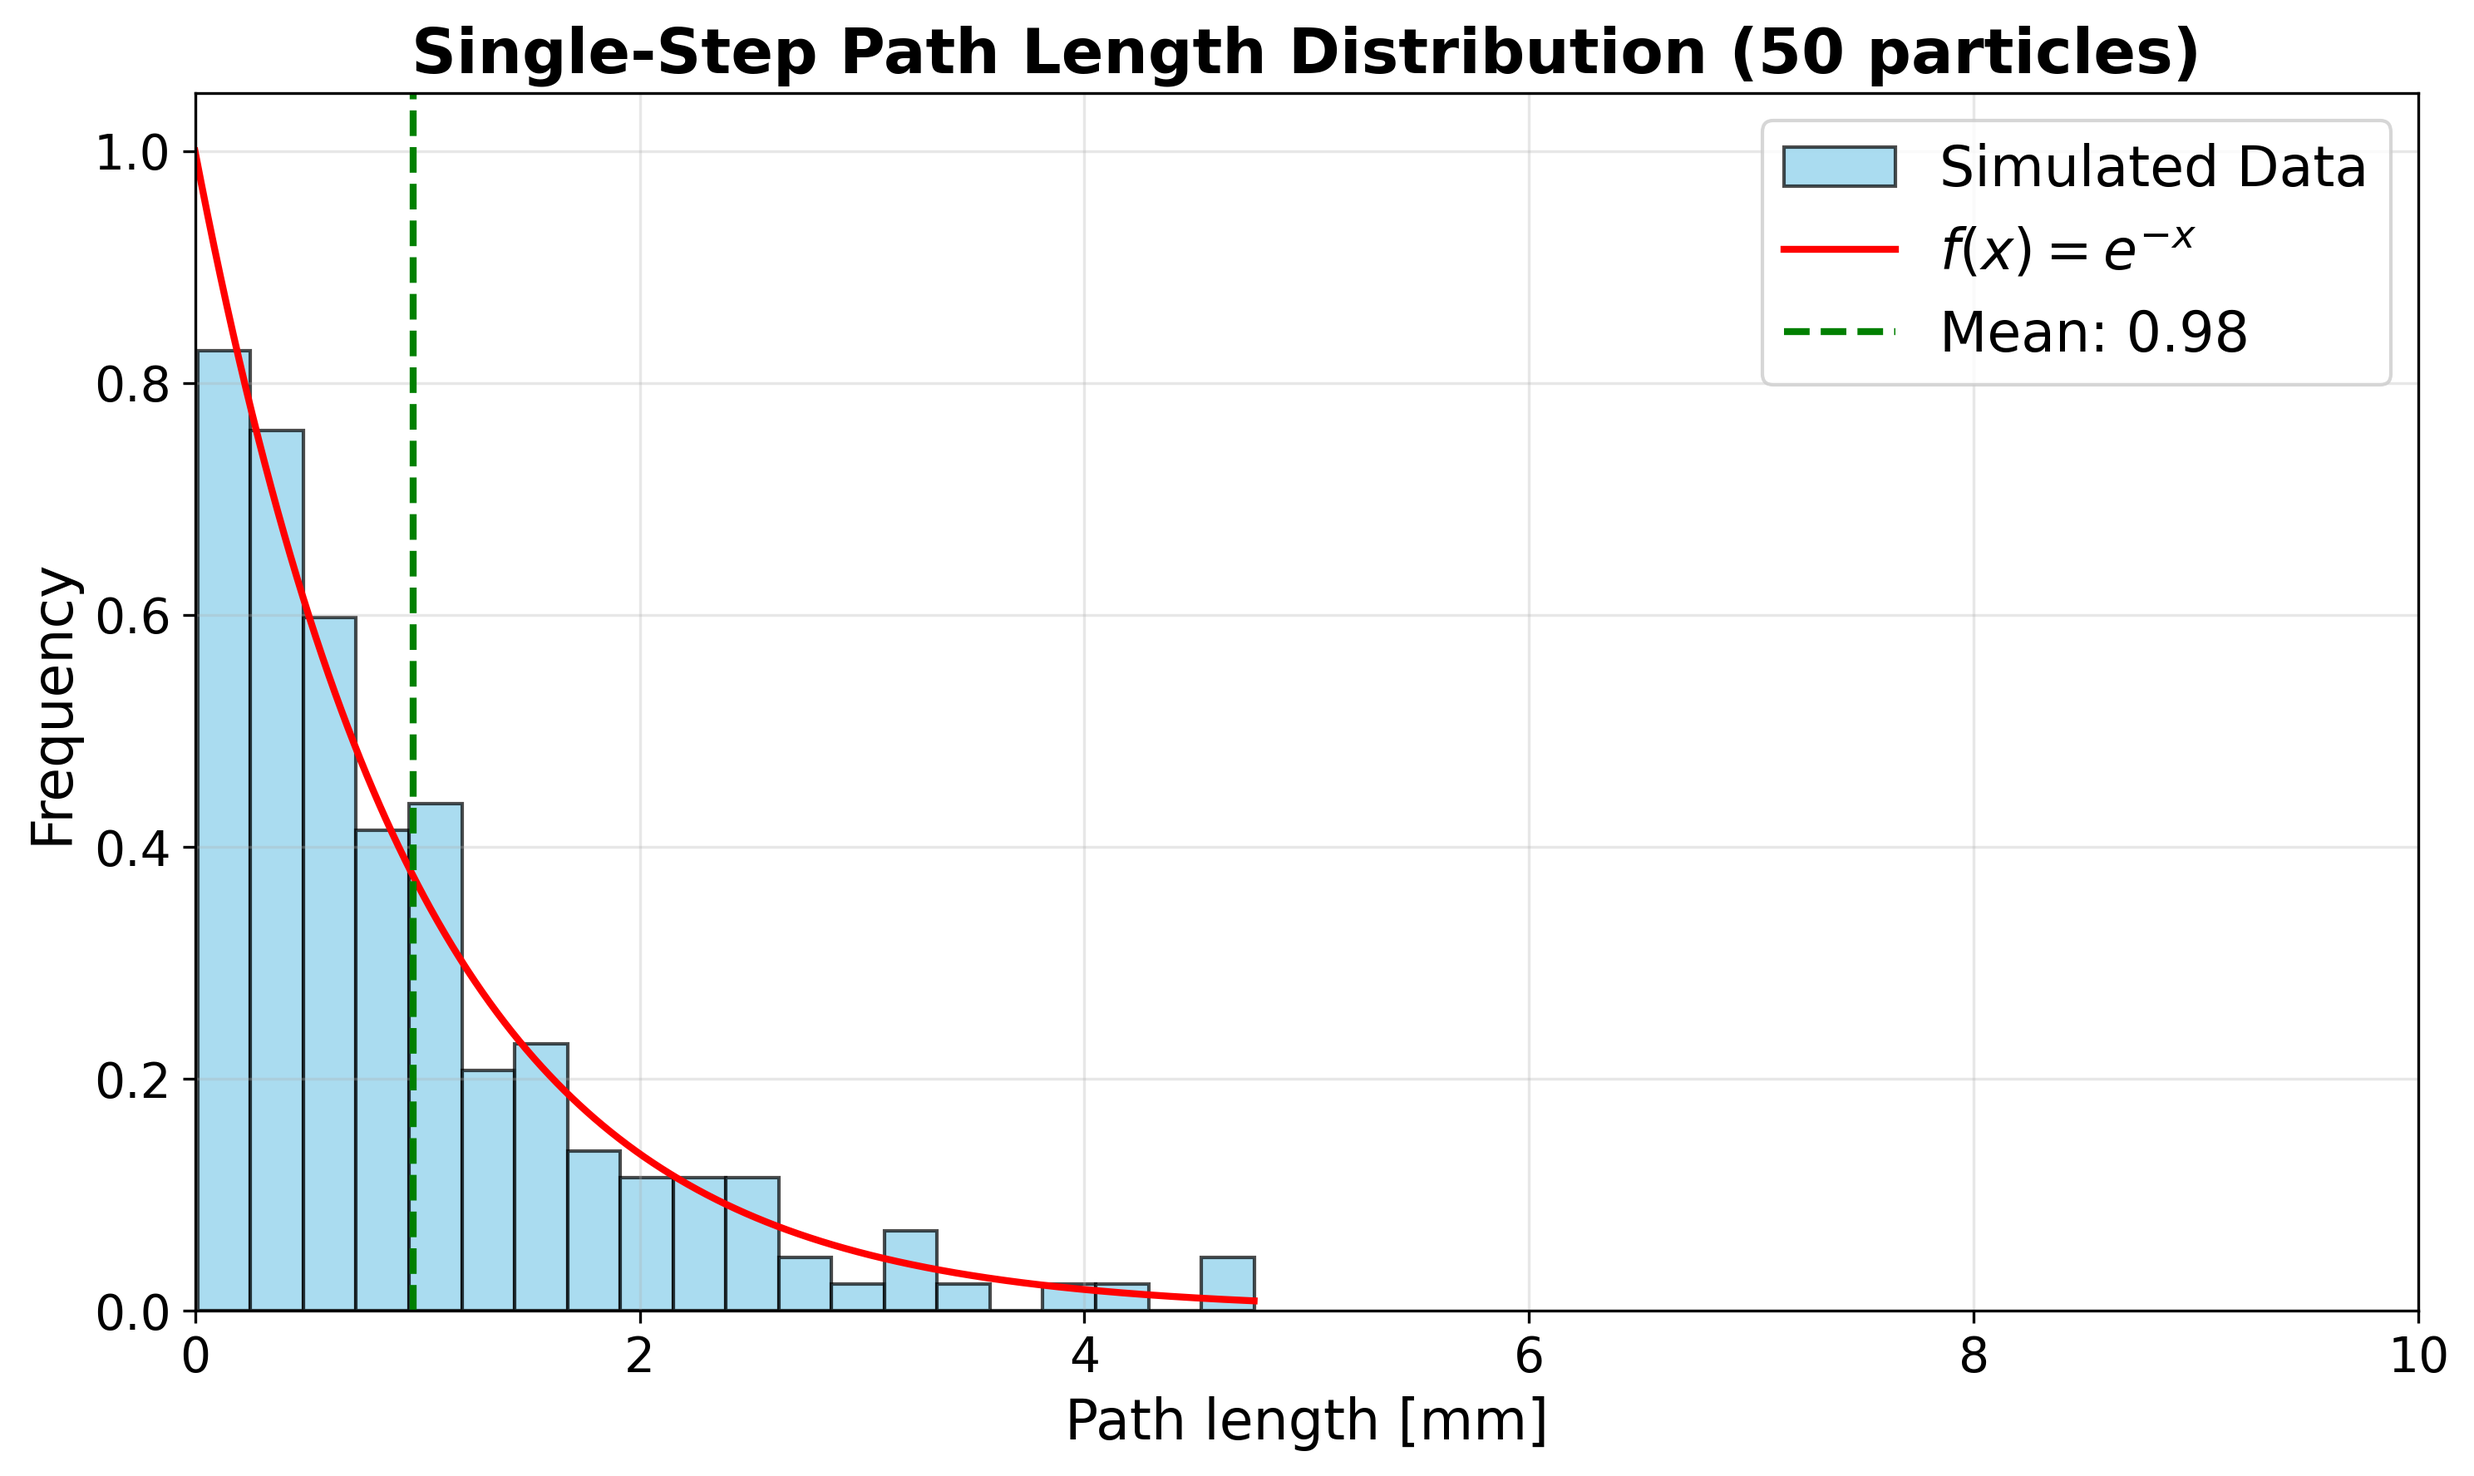
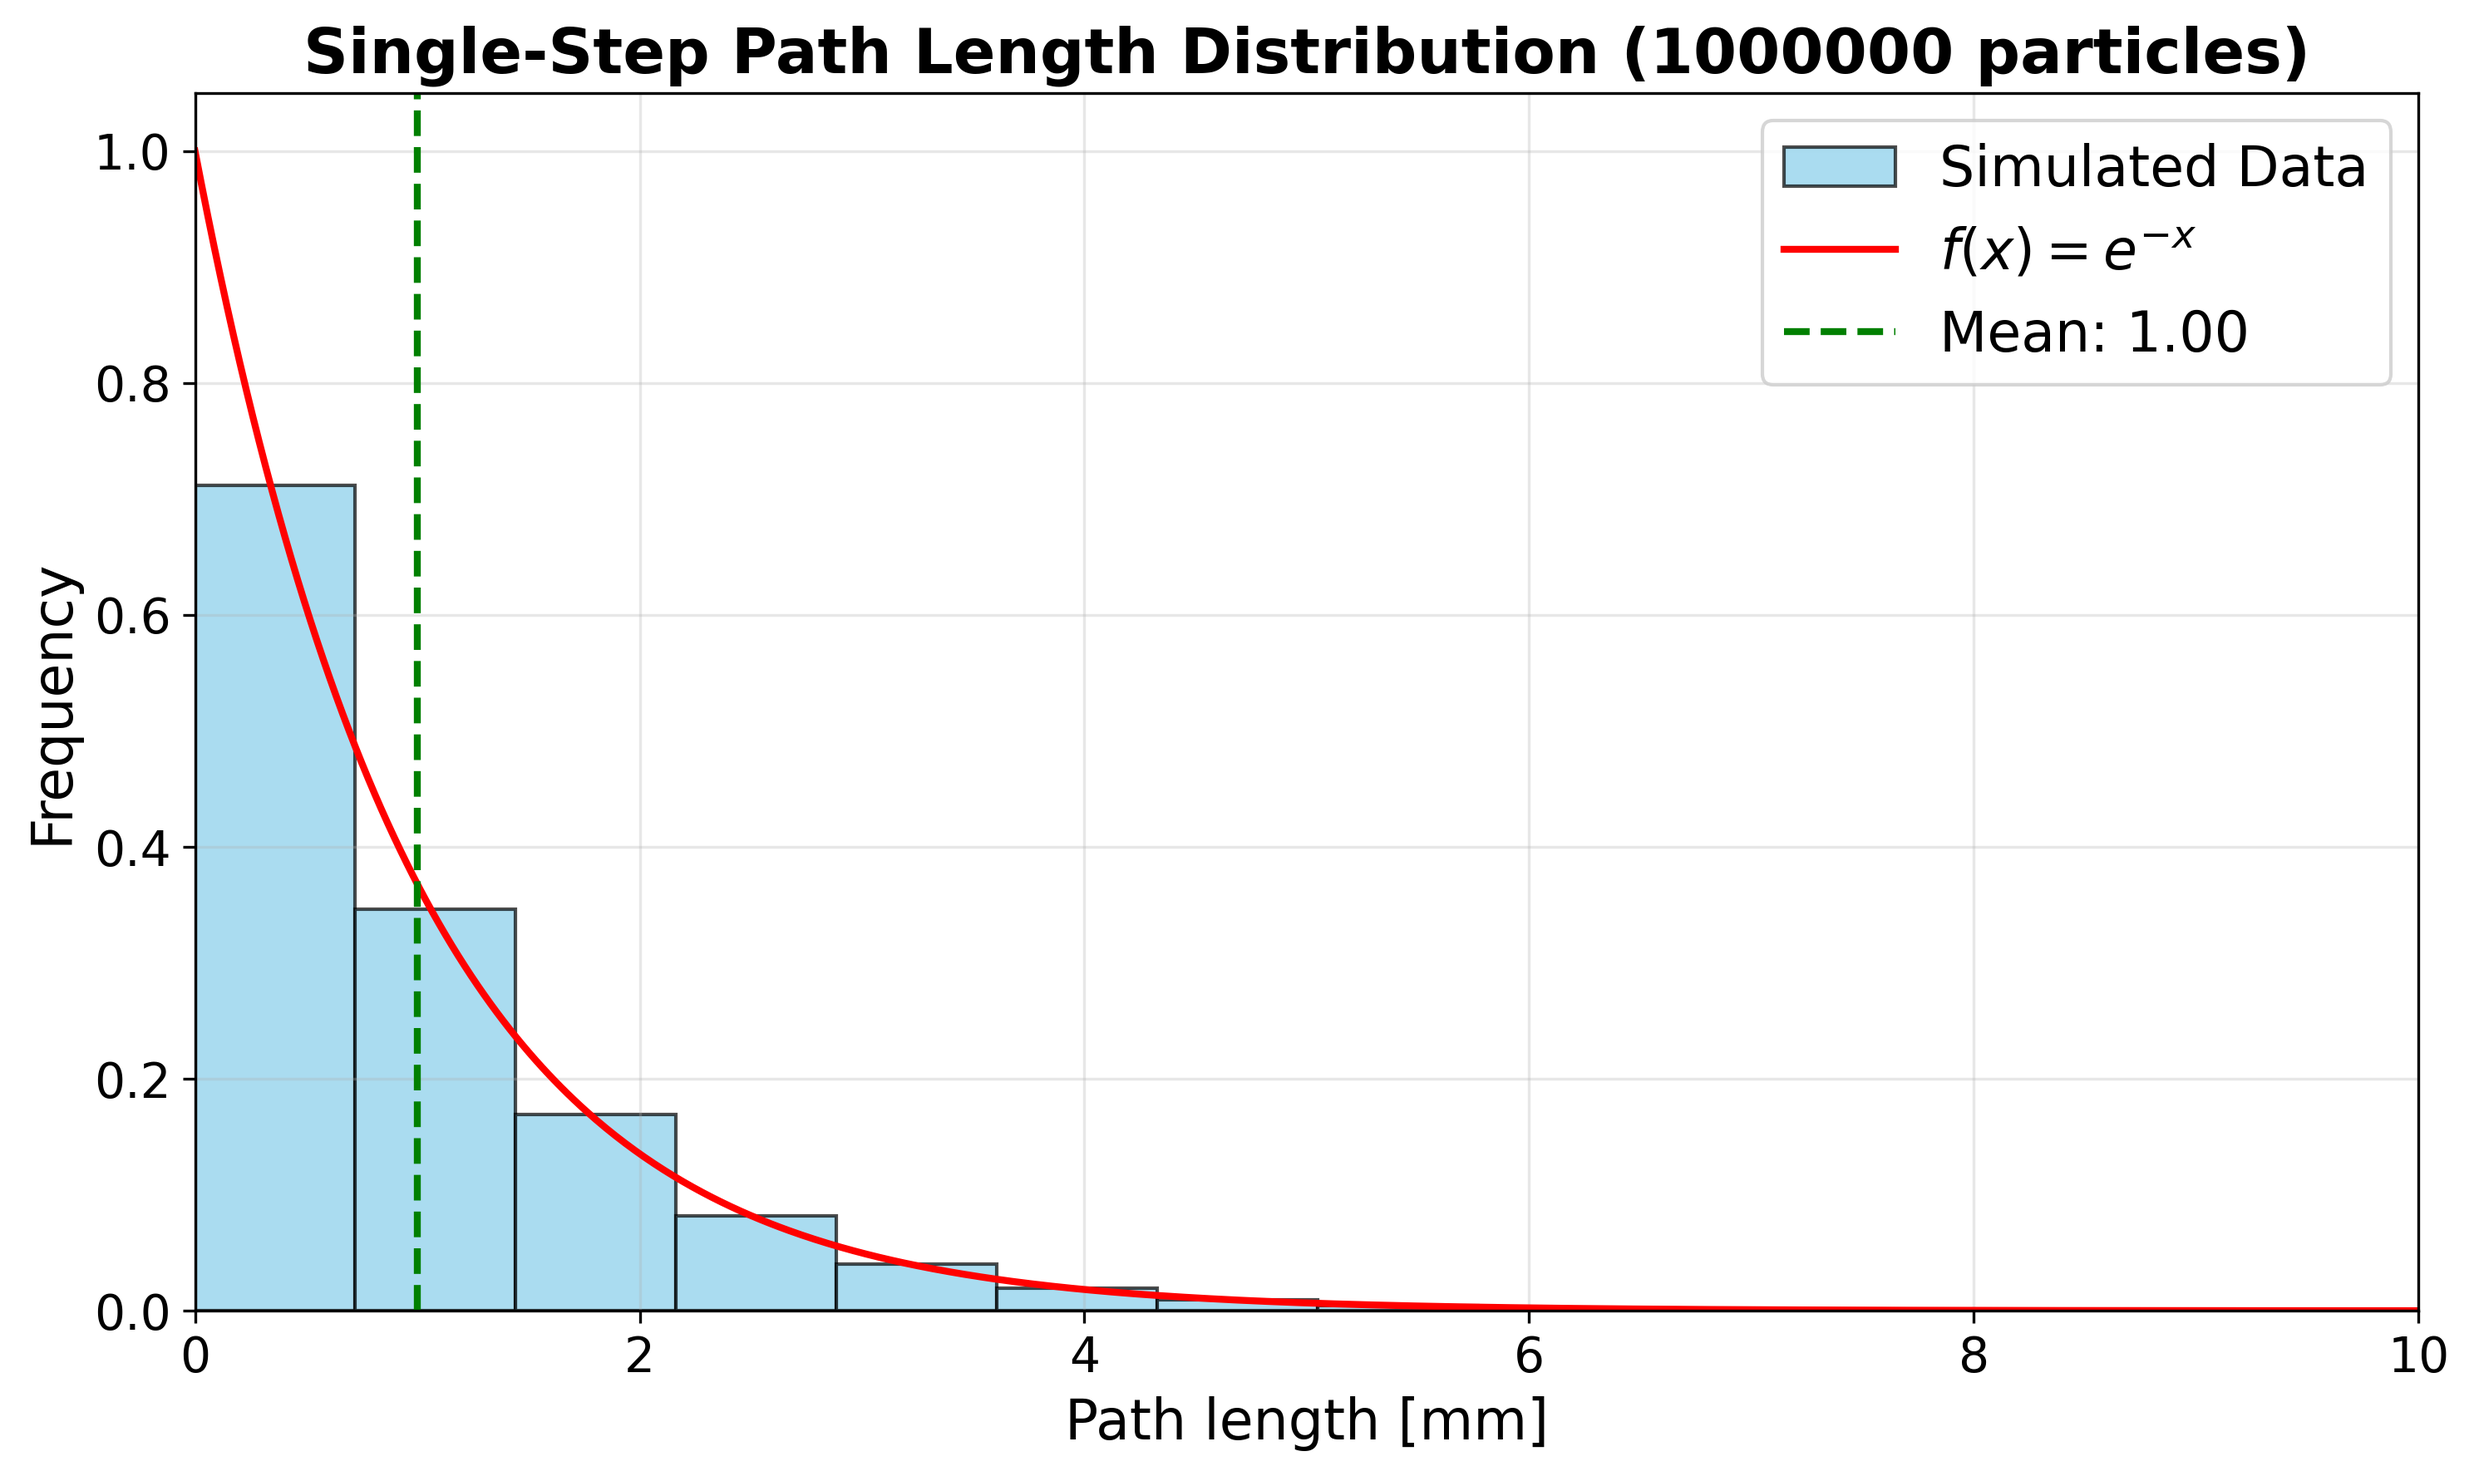
c

diff --git a/exercise3/ex3.py b/exercise3/ex3.py
@@ -4,12 +4,12 @@ import matplotlib.pyplot as plt
 X=np.arange(-5,100,1)
 Y=np.arange(-50,50,1)
 
-N=50
-
+N=1000000
 
 all_x_paths = []
 all_y_paths = []
 all_angles_paths = []
+angles_tot = []
 all_distance_paths = []
 distances_tot = []
 
@@ -27,6 +27,7 @@ for n in range(N):
     x=0
     y=0
     angle=0
+    angle_tot=0
     distance=0
     distance_tot=0
 
@@ -49,22 +50,22 @@ for n in range(N):
         distance=-np.log(1-rn1)
         distance_tot=distance_tot+distance
 
-        if x<5 and x+distance*np.cos(np.radians(angle))>=5:
+        if x<5<=x+distance*np.cos(np.radians(angle_tot))>=5:
             count5=count5+1
-            y5_val=y+(5-x)*np.tan(np.radians(angle))
+            y5_val=y+(5-x)*np.tan(np.radians(angle_tot))
             y5.append(y5_val)
 
-        if x<20 and x+distance*np.cos(np.radians(angle))>=20:
+        if x<20<=x+distance*np.cos(np.radians(angle_tot)):
             count20=count20+1
-            y20_val=y+(20-x)*np.tan(np.radians(angle))
+            y20_val=y+(20-x)*np.tan(np.radians(angle_tot))
             y20.append(y20_val)
 
 
         angles_path.append(angle)
         distance_path.append(distance)
 
-        x=x+distance*np.cos(np.radians(angle))
-        y=y+distance*np.sin(np.radians(angle))
+        x=x+distance*np.cos(np.radians(angle_tot))
+        y=y+distance*np.sin(np.radians(angle_tot))
 
         x_path.append(x)
         y_path.append(y)
@@ -96,6 +97,8 @@ for n in range(N):
         if np.random.rand()<0.5:
             angle=-angle
 
+        angle_tot=angle_tot+angle
+
         
 
     all_x_paths.append(x_path)
@@ -103,13 +106,19 @@ for n in range(N):
     all_angles_paths.append(angles_path)
     all_distance_paths.append(distance_path)
     distances_tot.append(distance_tot)
+    angles_tot.append(angle_tot)
 
 
 # results
-ratio=abs_interactions/scat_interactions
-print(f"ratio of absorption-scattering interactions: r={ratio}")
+if scat_interactions > 0:
+    ratio = abs_interactions/scat_interactions
+    print(f"ratio of absorption-scattering interactions: r={ratio}")
+else:
+    print("No scattering interactions occurred")
+
 print(f"number of particle reachin the detector at x=5mm: count(5)={count5}")
 print(f"number of particle reachin the detector at x=20mm: count(20)={count20}")
+
 """
 print("total path for each particle")
 print(distances_tot)
@@ -145,6 +154,20 @@ plt.tight_layout()
 plt.savefig("dist_total.png", dpi=300, bbox_inches='tight')
 plt.show()
 
+#plot distribution total angle
+plt.figure(figsize=(10, 6))
+plt.hist(angles_tot, bins=20, edgecolor='black', alpha=0.7, color='skyblue', density=True, label='simulated data')
+plt.axvline(np.mean(angles_tot), color='r', linestyle='--', linewidth=2, 
+            label=f'Mean: {np.mean(angles_tot):.2f}')
+plt.xlabel('Scattering Angle [degrees]', fontsize=16)
+plt.ylabel('Frequency', fontsize=16)
+plt.title(f'Total Scattering Angle Distribution ({N} particles)', fontsize=18, fontweight='bold')
+plt.legend(fontsize=16)
+plt.grid(True, alpha=0.3)
+plt.tick_params(axis='both', which='major', labelsize=14)
+plt.tight_layout()
+plt.savefig("ang_total.png", dpi=300, bbox_inches='tight')
+plt.show()
 
 #plot single step distance
 all_distances_flat = []
@@ -190,7 +213,7 @@ x_theory_pos = np.linspace(0, 180, 1000)
 f_theory_pos = x_theory_pos * np.exp(-x_theory_pos**2 / 625)/625
 
 plt.plot(x_theory_pos, f_theory_pos, 'r-', linewidth=2, 
-         label=r'$f(\theta) = \frac{C}{2} \cdot \theta \cdot e^{-\theta^2/a^2}$')
+         label=r'$f(\theta) = \frac{C}{2} \cdot |\theta| \cdot e^{-\theta^2/a^2}$')
 
 # theory curve for negative angles
 x_theory_neg = np.linspace(-180, 0, 1000)
@@ -204,7 +227,7 @@ plt.axvline(np.mean(all_angles_flat), color='g', linestyle='--', linewidth=2,
             label=f'Mean: {np.mean(all_angles_flat):.2f}°')
 
 
-plt.xlabel('Scattering Angle (degrees)', fontsize=16)
+plt.xlabel('Scattering Angle [degrees]', fontsize=16)
 plt.ylabel('Frequency', fontsize=16)
 plt.title(f'Scattering Angle Distribution ({N} particles)', 
           fontsize=18, fontweight='bold')
@@ -222,7 +245,7 @@ from mpl_toolkits.axes_grid1.inset_locator import inset_axes, mark_inset
 
 # 2D tracking
 fig, (ax1, ax2) = plt.subplots(2, 1, figsize=(10, 12))
-
+'''
 #principal plot
 for i in range(N):
     if i == 0:
@@ -279,7 +302,7 @@ ax1.legend(fontsize=16, loc='best')
 plt.tight_layout() 
 plt.savefig("path.png", dpi=300, bbox_inches='tight')
 plt.show()
-
+'''
 #plot distribution detector 5
 if count5>0:
     plt.figure(figsize=(10, 6))
@@ -288,7 +311,7 @@ if count5>0:
                 label=f'Mean: {np.mean(y5):.2f}')
     plt.xlabel('Position along y-axis [mm]', fontsize=16)
     plt.ylabel('Frequency', fontsize=16)
-    plt.title(f'Position Distribution at 5mm ({N} particles)', fontsize=18, fontweight='bold')
+    plt.title(f'Position Distribution at x=5mm ({N} particles)', fontsize=18, fontweight='bold')
     plt.suptitle(f'{count5} particles reached the detector', fontsize=16)
     plt.legend(fontsize=16)
     plt.grid(True, alpha=0.3)
@@ -305,7 +328,7 @@ if count20>0:
             label=f'Mean: {np.mean(y20):.2f}')
     plt.xlabel('Position along y-axis [mm]', fontsize=16)
     plt.ylabel('Frequency', fontsize=16)
-    plt.title(f'Position Distribution at 20mm ({N} particles)', fontsize=18, fontweight='bold')
+    plt.title(f'Position Distribution at x=20mm ({N} particles)', fontsize=18, fontweight='bold')
     plt.suptitle(f'{count20} particles reached the detector', fontsize=16)
     plt.legend(fontsize=16)
     plt.grid(True, alpha=0.3)
